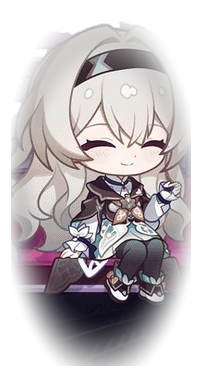
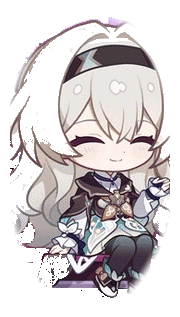
Remove the last faded photos from the sill and give Hysilens her portrait.
Cyrene, Evernight and Dan Heng now get a border-flood matte with interior hole filling: their sets are flat and border-connected while the costume holes it punches are internal, so the set goes and the figure stays. Tribbie keeps her swing, which is her pose rather than a matte failure. Hysilens has no official Q body above 360p - the 3.5 announcement substitutes The Herta and the programme stream is unreachable - so by the standing call she uses the official PPG bust. Portraits draw 80 percent tall so a bust head matches the sitters, and her corner face is suppressed since the body is that art.

diff --git a/tools/matte_sill.py b/tools/matte_sill.py
@@ -52,7 +52,10 @@ MANIFEST = OUT_DIR / "manifest.json"
 MODEL_DIR = ROOT / "models" / "u2net"
 INPUT = 320
 
-# saliency: u2net separates cleanly. cut: it does not — dissolve the crop edge.
+# saliency: u2net separates cleanly. cut: dissolve the crop edge. flood: remove
+# the border-connected set through flat colour, then fill the interior holes the
+# flood punches in costumes (Cyrene, Evernight, Dan Heng sit in busy sets where
+# u2net reads the photograph). copy: the art is already a transparent bust.
 POLICY: dict[str, str] = {
     # u2net reads these cleanly (crisp 2D announcement stills).
     "aglaea": "saliency",
@@ -61,22 +64,31 @@ POLICY: dict[str, str] = {
     "cipher": "saliency",
     "mydei": "saliency",
     "cerydra": "saliency",
-    "dan-heng-permansor-terrae": "cut",
-    # 360p 3D stage crops (no 2D announcement body exists for these two), the
-    # 3.5 2D overlay, and the three who sit deep in a busy set: u2net reads the
-    # photograph rather than the figure, so keep the first pass and dissolve it.
-    "anaxa": "cut",
-    "phainon": "cut",
-    "hysilens": "cut",
-    "evernight": "cut",
-    "cyrene": "cut",
+    # Busy painted sets: the set is border-connected and flat, the costume holes
+    # the flood punches are interior, so hole-filling restores the figure.
+    "cyrene": "flood",
+    "evernight": "flood",
+    "dan-heng-permansor-terrae": "flood",
+    # Her swing and flowers are her canonical seat, not a matte failure.
     "tribbie": "cut",
+    # Overridden below (a bust, not a sit).
+    "anaxa": "copy",
+    "phainon": "copy",
+    "hysilens": "copy",
+}
+
+# Flood tuning per sprite: (Lab tolerance, minimum flatness to walk through).
+FLOOD_TUNING: dict[str, tuple[float, float]] = {
+    "cyrene": (14.0, 0.50),
+    "dan-heng-permansor-terrae": (14.0, 0.50),
+    "evernight": (22.0, 0.35),
 }
 
 # Elliptical falloff: flat inside `inset` of the way to the crop edge, gone by it.
 # "cut" fades hard enough to dissolve the furniture the first pass kept; the
 # saliency mask is already tight, so it only needs a clean border.
-FEATHER = {"cut": (0.62, 0.40), "saliency": (0.88, 0.10)}
+FEATHER = {"cut": (0.62, 0.40), "saliency": (0.88, 0.10),
+           "flood": (0.88, 0.10), "copy": (0.92, 0.08)}
 SALIENCY_FLOOR = 0.32
 
 # Colour a fading edge is pulled toward, so a half-transparent photograph stops
@@ -107,6 +119,18 @@ OVERRIDES: dict[str, dict] = {
         "out": "phainon_v34_announcement_bust.png",
         "policy": "saliency",
         "note": "3.4 announcement bottom-left bust; sharper than the 360p stage grab",
+    },
+    # hysilens: her Q body exists only in the 3.5 programme video at 360p; no
+    # official still carries it (the 3.5 announcement substitutes The Herta), and
+    # the video's API is unreachable from this machine. The operator's standing
+    # call is "bust when resolution does not work out", so her body is the
+    # official Pom-Pom Gallery sticker — crisp, transparent, canon.
+    "hysilens": {
+        "base": "assets/eternal_page/cute/hysilens",
+        "source": "02.png",
+        "out": "hysilens_ppg_bust.png",
+        "policy": "copy",
+        "note": "PPG bust: the only crisp official art of her; the 360p Q body is not rescuable",
     },
 }
 
@@ -163,6 +187,69 @@ def trim(im: Image.Image) -> Image.Image:
     return im.crop(bb) if bb else im
 
 
+def _flatness(rgb: np.ndarray, blur: int = 3) -> np.ndarray:
+    im = Image.fromarray(rgb).convert("L").filter(ImageFilter.GaussianBlur(1.0))
+    edge = im.filter(ImageFilter.FIND_EDGES).filter(ImageFilter.GaussianBlur(blur))
+    e = np.asarray(edge, dtype=np.float32) / 255.0
+    return np.clip(1.0 - e * 5.0, 0.0, 1.0)
+
+
+def _lab(rgb: np.ndarray) -> np.ndarray:
+    return np.asarray(Image.fromarray(rgb).convert("LAB"), dtype=np.float32)
+
+
+def _flood_remove(alpha: np.ndarray, rgb: np.ndarray, tol: float,
+                  flat_min: float, ring: int = 10) -> np.ndarray:
+    """Where the border-connected set lives: flat, colour-similar, reachable.
+
+    Seeded from a ring just inside the crop (the first pass leaves a transparent
+    rim), walking only through low-detail pixels of similar colour, so it spreads
+    across a bench or a sofa but stops at the figure's ink.
+    """
+    h, w = alpha.shape
+    opaque = alpha > 0.05
+    interior = np.zeros_like(opaque)
+    interior[ring:h - ring, ring:w - ring] = True
+    flat = _flatness(rgb)
+    L = _lab(rgb)
+    seeds = [(y, x) for y in range(h) for x in range(w)
+             if opaque[y, x] and not interior[y, x]]
+    kill = np.zeros((h, w), bool)
+    queue: list[tuple[int, int]] = []
+    for y, x in seeds:
+        kill[y, x] = True
+        queue.append((y, x))
+    head = 0
+    while head < len(queue):
+        y, x = queue[head]
+        head += 1
+        for dy, dx in ((1, 0), (-1, 0), (0, 1), (0, -1)):
+            ny, nx = y + dy, x + dx
+            if ny < 0 or nx < 0 or ny >= h or nx >= w or kill[ny, nx] or not opaque[ny, nx]:
+                continue
+            if flat[ny, nx] < flat_min:
+                continue
+            if float(np.sqrt(((L[ny, nx] - L[y, x]) ** 2).sum())) > tol:
+                continue
+            kill[ny, nx] = True
+            queue.append((ny, nx))
+    return kill
+
+
+def _fill_holes(kept: np.ndarray) -> np.ndarray:
+    """Interior holes the flood punched in a costume are not the set — restore them."""
+    try:
+        import cv2
+    except Exception:
+        return kept
+    m = kept.astype(np.uint8)
+    ff = m.copy()
+    mask = np.zeros((m.shape[0] + 2, m.shape[1] + 2), np.uint8)
+    cv2.floodFill(ff, mask, (0, 0), 1)
+    outside = ff.astype(bool)
+    return kept | (~outside)
+
+
 def pad(im: Image.Image, frac: float = 0.06) -> Image.Image:
     """A little transparent margin so the fade happens outside the silhouette."""
     w, h = im.size
@@ -214,7 +301,14 @@ def matte(sess, cid: str, src: Image.Image, policy: str | None = None) -> tuple[
         grown = Image.fromarray(solid * 255).filter(ImageFilter.MaxFilter(3))
         grown = grown.filter(ImageFilter.MinFilter(3)).filter(ImageFilter.GaussianBlur(1.0))
         a = np.minimum(a, np.asarray(grown, dtype=np.float32) / 255.0 + 0.2)
+    elif policy == "flood":
+        rgb = np.asarray(src.convert("RGB"), dtype=np.uint8)
+        tol, flat_min = FLOOD_TUNING.get(cid, (14.0, 0.50))
+        kill = _flood_remove(v1, rgb, tol, flat_min)
+        kept = _fill_holes((v1 > 0.05) & ~kill)
+        a = np.where(kept, v1, 0.0)
     else:
+        # "cut" keeps the first pass; "copy" is already transparent art (a bust).
         a = v1
     out = src.copy()
     out.putalpha(Image.fromarray((np.clip(a, 0, 1) * 255).astype(np.uint8)))
@@ -252,7 +346,8 @@ def main(argv: list[str]) -> int:
     for cid in ([only] if only else list(Q_SIT.keys())):
         override = OVERRIDES.get(cid)
         if override:
-            src_path = QPROGRAM / override["source"]
+            src_path = (ROOT / override["base"] / override["source"]
+                        if override.get("base") else QPROGRAM / override["source"])
             out_name = override["out"]
             policy = override.get("policy")
         else:
@@ -301,9 +396,14 @@ def main(argv: list[str]) -> int:
                     "bytes": path.stat().st_size,
                 }
         for cid, override in OVERRIDES.items():
-            path = QPROGRAM / override["source"]
+            path = (ROOT / override["base"] / override["source"]
+                    if override.get("base") else QPROGRAM / override["source"])
             if path.is_file():
-                sources[override["source"]] = {
+                try:
+                    key = str(path.relative_to(QPROGRAM)).replace("\\", "/")
+                except ValueError:
+                    key = str(path.relative_to(ROOT)).replace("\\", "/")
+                sources[key] = {
                     "sha256": hashlib.sha256(path.read_bytes()).hexdigest(),
                     "bytes": path.stat().st_size,
                     "note": override.get("note", ""),

diff --git a/src/ui_eternal_page.py b/src/ui_eternal_page.py
@@ -759,6 +759,9 @@ def build_stage_html(
         body_src, face_src, kind = _art_parts(src)
         if not body_src:
             continue
+        # A portrait bust carries a bigger head than a full-body sitter at the
+        # same 140 px, so it is drawn a little smaller to keep the set in scale.
+        bust = bool(isinstance(src, dict) and src.get("bust"))
         left, bottom = ep.place_of(cid, layout)
         on = " on" if cid in selected_ids else ""
         label = html.escape(names.get(cid) or ep.short_name(cid))
@@ -795,10 +798,11 @@ def build_stage_html(
                 f'<img class="face" alt="" src="{face_src}" draggable="false" />'
             )
         z = 7 if cid in selected_ids else (4 if bottom < 24 else 2)
+        bust_attr = ' data-amp-bust="1"' if bust else ""
         buddies.append(
             f'<button type="button" class="buddy{on}{face_cls}" data-heir="{html.escape(cid)}" '
             f'data-amp-emotion="{feeling}" data-amp-vfx="{vfx_attr}" '
-            f'data-amp-body="{html.escape(kind)}"{gest_attr} '
+            f'data-amp-body="{html.escape(kind)}"{gest_attr}{bust_attr} '
             f'title="{label} — click, drag, right-click, or hover keys" '
             f'style="left:{left}%;bottom:{bottom}%;z-index:{z}">'
             f"{bubble}"
@@ -878,6 +882,12 @@ html, body {{
   user-select: none;
   -webkit-user-drag: none;
   filter: drop-shadow(0 8px 10px rgba(20,12,6,.45));
+}}
+/* A bust is a portrait, not a standee: drawn 80 % tall and pushed to the same
+   baseline, so its head is not half again the size of a sitting Heir's. */
+.buddy[data-amp-bust="1"] img.body {{
+  max-height: 112px;
+  margin-top: 28px;
 }}
 .buddy img.face {{
   display: none;
@@ -1190,10 +1200,14 @@ def stage_art_uris(emotions: Optional[dict] = None, *, cyrene_form: Optional[str
                 face_path = cyrene_face.face_path(cyrene_form) or face_path
             cleaner = eternal_sill.body_png(cid)
             body_png = cleaner if cleaner is not None else spr["body_png"]
+            if cid in eternal_sill.BUST_BODIES:
+                face_path = None   # the body is already that portrait
             art_uris[cid] = {
                 "body": _bytes_uri(body_png),
                 "face": _data_uri(face_path) if face_path else "",
                 "kind": "q",
+                # A portrait crop from the catalog is drawn smaller (see the CSS).
+                "bust": cid in eternal_sill.PORTRAIT_BODIES,
             }
         elif spr.get("body_path"):
             art_uris[cid] = {

diff --git a/tools/test_eternal_sill.py b/tools/test_eternal_sill.py
@@ -26,7 +26,7 @@ from src.world.eternal_page import CIRCLE, all_ids  # noqa: E402
 from src.world.eternal_q import CUTOUTS, Q_SIT  # noqa: E402
 
 PASSED, FAILED = [], []
-POLICIES = {"saliency", "cut"}
+POLICIES = {"saliency", "cut", "flood", "copy"}
 
 
 def hair_hue(im) -> tuple[float, float]:
@@ -72,9 +72,14 @@ def main() -> int:
     check("every circle cutout is recorded", set(provenance) >= {Q_SIT[c][0] for c in CIRCLE})
     mismatched = []
     for name, row in provenance.items():
-        # Override sources are recorded relative to q_program/; first-pass
-        # cutouts live in cutouts/.
-        path = (CUTOUTS.parent / name) if "/" in name else (CUTOUTS / name)
+        # Sources are recorded either as a bare cutout filename, as a path
+        # relative to q_program/, or as one relative to the repository root.
+        if name.startswith("assets/"):
+            path = ROOT / name
+        elif "/" in name:
+            path = CUTOUTS.parent / name
+        else:
+            path = CUTOUTS / name
         if not path.is_file():
             mismatched.append(f"{name}: missing")
             continue
@@ -192,6 +197,23 @@ def main() -> int:
         eternal_sill.MATTE_DIR = saved
         eternal_sill.body_png.cache_clear()
 
+
+    print("== Portraits and clean bodies (2026-10-27) ==")
+    check("hysilens is a portrait bust",
+          (eternal_sill.matte_path("hysilens") or Path("")).name
+          == eternal_sill.ALIAS["hysilens"])
+    check("hysilens carries no duplicate face",
+          "hysilens" in eternal_sill.BUST_BODIES and "hysilens" in eternal_sill.PORTRAIT_BODIES)
+    check("the three portraits are drawn smaller than the sitters",
+          eternal_sill.PORTRAIT_BODIES == {"anaxa", "phainon", "hysilens"})
+    flood_cids = [c for c in ("cyrene", "evernight", "dan-heng-permansor-terrae")
+                  if (manifest.get(c) or {}).get("policy") == "flood"]
+    check("the busy-set bodies use the flood matte", len(flood_cids) == 3, str(flood_cids))
+    for cid in flood_cids:
+        row = manifest.get(cid) or {}
+        check(f"{cid}: the set was removed, not faded", row.get("covered", 1) < 0.8,
+              str(row.get("covered")))
+
     print()
     print(f"{len(PASSED)} passed, {len(FAILED)} failed")
     return 1 if FAILED else 0
@@ -199,3 +221,4 @@ def main() -> int:
 
 if __name__ == "__main__":
     raise SystemExit(main())
+

diff --git a/src/world/eternal_sill.py b/src/world/eternal_sill.py
@@ -33,7 +33,16 @@ MIN_BYTES = 4000
 ALIAS = {
     "anaxa": "anaxa_v34_announcement_bust.png",
     "phainon": "phainon_v34_announcement_bust.png",
+    "hysilens": "hysilens_ppg_bust.png",
 }
+
+# Bodies that are already a portrait of the Heir: the corner face sticker would be
+# a second copy of the same art, so it is left off for these.
+BUST_BODIES = frozenset({"hysilens"})
+
+# Bodies that are portraits rather than full figures — drawn a little smaller so
+# the set stays in scale (a bust at 140 px has a much bigger head than a sitter).
+PORTRAIT_BODIES = frozenset({"anaxa", "phainon", "hysilens"})
 
 
 def matte_path(character_id: str) -> Optional[Path]:

diff --git a/docs/ETERNAL-SILL.md b/docs/ETERNAL-SILL.md
@@ -97,3 +97,36 @@ page exactly; nothing else depends on it.
 **Charter:** the model runs locally on CPU, nothing leaves the machine, no art is
 invented, and the first pass stays byte-identical — verified by hash in
 `cutouts_matte/sources.json` and re-checked by the suite.
+
+---
+
+## 2026-10-27 — the last four, and one portrait
+
+The five bodies that still carried a photo aura were split by cause, not by taste:
+
+| Cause | Heirs | Outcome |
+|---|---|---|
+| Busy painted set, crisp source | Cyrene, Evernight, Dan Heng | **`flood`** — the set is border-connected and flat, the costume holes the flood punches are interior, so filling interior holes restores the figure and leaves the set gone |
+| Her canonical seat | Tribbie | unchanged: the swing and flowers are her pose, not a matte failure |
+| No crisp Q art anywhere | Hysilens | **`copy`** — the official Pom-Pom Gallery bust |
+
+**Why Hysilens is a portrait.** Her Q body exists only inside the 3.5 special
+programme video at 360p; the 3.5 announcement substitutes The Herta, and no
+official still carries her Q form. Better sources were searched for — the
+programme's own higher-quality stream (bilibili's API is unreachable from this
+machine; `app.bilibili.com` answers but refuses the query), fan archives of the
+preview stream (JS-rendered, no hotlinkable stills), and character-art pages
+(splash art, not a chibi). Per the operator's standing call — *bust when the
+resolution does not work out* — her body is the official sticker: crisp,
+transparent, and canon.
+
+Portraits are drawn 80 % tall (`.buddy[data-amp-bust]`) so a bust's head is not
+half again a sitting Heir's, and Hysilens carries no corner-face sticker because
+her body *is* that art.
+
+**Result:** no faded photograph remains on the sill. Nine clean cutouts, three
+portraits, one Heir with her swing.
+
+Suites: `tools/test_eternal_sill.py` (30 checks — including that the flood bodies
+removed their set rather than fading it, and that the three portraits are the
+three `PORTRAIT_BODIES`), `tools/test_eternal_page.py` (395).

diff --git a/README.md b/README.md
@@ -1369,3 +1369,17 @@ eternity with you.
   Verified by driving the **LAN address** (not localhost) with Chromium —
   10 checks, including that the Admin Console and Control Panel open in the same
   session. Not yet run on a physical handset.
+
+### 2026-10-27 — the last five bodies, and Hysilens
+- **Three sets removed properly** — Cyrene, Evernight and Dan Heng no longer wear
+  a faded photograph: a border flood removes the flat, border-connected set and
+  interior hole-filling restores the costume it punched through. No faded photo
+  remains on the sill: nine clean cutouts, three portraits, and Tribbie keeping
+  her swing (that is her pose, not a matte failure).
+- **Hysilens is a portrait** — her Q body exists only in the 3.5 programme video
+  at 360p; the 3.5 announcement substitutes The Herta and no official still
+  carries it. Higher-quality streams and fan archives were searched for and none
+  are reachable from this machine, so per the standing call she uses the official
+  Pom-Pom Gallery bust. Portraits now draw 80 % tall so a bust's head matches the
+  sitters'. Suites: `tools/test_eternal_sill.py` (30),
+  `tools/test_eternal_page.py` (395). Detail: `docs/ETERNAL-SILL.md`.

diff --git a/docs/ART-PROVENANCE.md b/docs/ART-PROVENANCE.md
@@ -118,3 +118,14 @@ If you ever need to re-audit identities, compare each body against its
   `docs/STAGE-2-VIVID.md` (append-only changelog notes).
 - **Untouched**: every `src/characters/*.json` card, `databank/`, all art
   catalogs, and every script listed in the table above.
+
+## Hysilens, specifically (2026-10-27)
+
+Her Q body has no official still. The 3.5 announcement substitutes The Herta, and
+the programme video is 360p. Searched, in order: the programme's own stream via
+`api.bilibili.com` (unreachable; `app.bilibili.com` answers and refuses the
+query), fan archives of the preview stream, character-art pages (splash, not
+chibi), and a 4K illustration video (not Q art). Nothing usable. Her body is
+therefore the official Pom-Pom Gallery sticker (`hysilens_ppg_bust.png`), which
+is crisp, transparent and canon — recorded here so the next attempt knows the
+search was run, not skipped.
